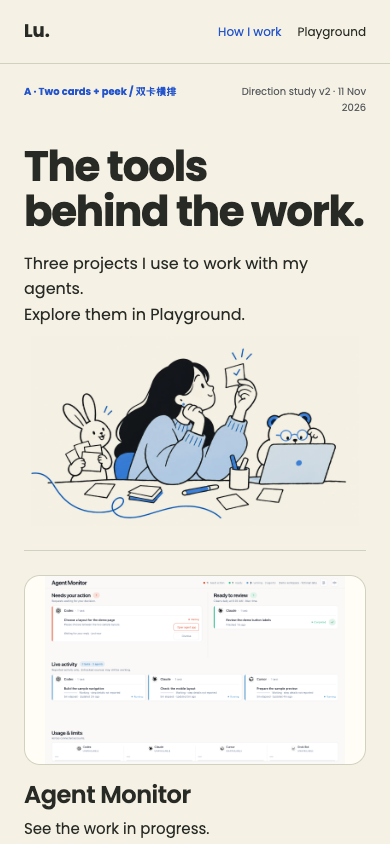
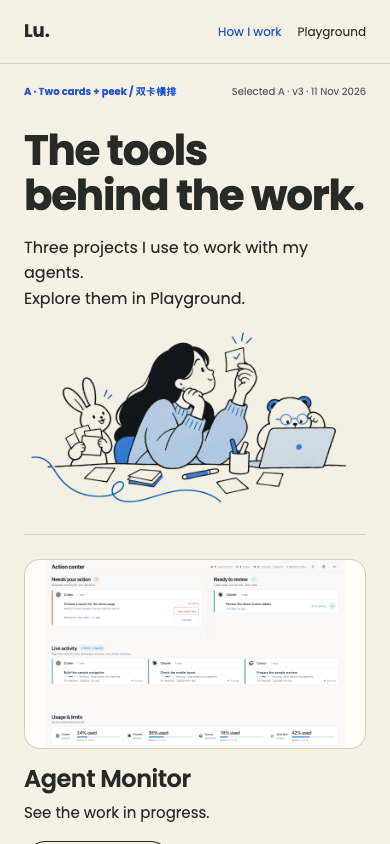
design: finalize A with real isolated app captures and separate destinations

diff --git a/design/hiw-agent-projects-1111/style.css b/design/hiw-agent-projects-1111/style.css
@@ -1,2 +1,3 @@
 @font-face{font-family:Poppins;src:url(assets/poppins-latin-400-normal.woff2);font-weight:400}@font-face{font-family:Poppins;src:url(assets/poppins-latin-600-normal.woff2);font-weight:600}@font-face{font-family:Poppins;src:url(assets/poppins-latin-700-normal.woff2);font-weight:700}*{box-sizing:border-box}body{margin:0;background:#f5f1e4;color:#272a25;font:400 16px/1.6 Poppins,sans-serif}header{height:76px;padding:0 48px;display:flex;align-items:center;justify-content:space-between;border-bottom:1px solid #d0d2c0}header strong{font-size:22px}nav{display:flex;gap:40px}a{color:inherit;text-decoration:none}nav .current{color:#2455cc}main{max-width:1440px;margin:auto;padding:24px 48px 36px}.review{font-size:12px;color:#595d61;display:flex;justify-content:space-between;margin-bottom:24px}.review b{color:#2455cc}h1,h2,h3,p{margin:0}h1{font-size:76px;line-height:1.05;letter-spacing:-.03em;font-weight:700}h2{font-size:48px;line-height:1.1;letter-spacing:-.03em;font-weight:600}h3{font-size:24px;line-height:1.2;font-weight:600;letter-spacing:-.02em}.lead{font-size:18px;max-width:580px;margin-top:20px}.hero{display:grid;grid-template-columns:1.5fr 1fr;align-items:center;min-height:288px;margin-bottom:24px}.hero img{width:100%;height:280px;object-fit:contain;mix-blend-mode:multiply}.cards{display:grid;grid-template-columns:repeat(3,minmax(0,1fr));gap:24px;border-top:1px solid #d0d2c0;padding-top:24px}.card{min-width:0}.media{background:#fffdf5;border:1px solid #d0d2c0;border-radius:16px;overflow:hidden;position:relative;height:220px}.media img{width:100%;height:100%;object-fit:contain;display:block}.media.office{background:#111214}.media.office img{image-rendering:pixelated}.redacted{position:absolute;bottom:8px;left:12px;padding:2px 8px;background:#fffdf5;font-size:10px;color:#595d61}.card h3{margin:20px 0 8px}.card p{font-size:15px;min-height:48px;max-width:36ch}.pill{display:inline-flex;align-items:center;justify-content:center;min-height:44px;padding:9px 20px;border:1px solid #272a25;border-radius:999px;font-size:14px;margin-top:20px;background:transparent}.pill:focus-visible{outline:2px solid #2455cc;outline-offset:4px}.pill:hover{background:#272a25;color:#f5f1e4}footer{border-top:1px solid #d0d2c0;margin-top:32px;padding-top:18px;font-size:12px;color:#595d61;display:flex;justify-content:space-between}.bhero{display:grid;grid-template-columns:1fr 1fr;gap:80px;margin-top:40px}.bhero h1{font-size:68px}.bhero .illu{width:100%;height:300px;object-fit:contain;mix-blend-mode:multiply}.rows{border-top:1px solid #d0d2c0}.row{display:grid;grid-template-columns:200px 1fr;gap:24px;padding:24px 0;border-bottom:1px solid #d0d2c0;align-items:center}.row .media{height:125px;border-radius:10px}.row h3{margin-bottom:12px}.row p{font-size:14px}.landing .hero{min-height:360px}.landing .hero img{height:340px}.landing .cards{margin-top:12px}.landing .media{height:190px}.landing .card h3{font-size:22px}.breadcrumb{font-size:14px;color:#595d61;margin:8px 0 24px}.landing h1{font-size:76px}.landing .pill{margin-top:0}.landing .jump{display:flex;gap:12px;margin-top:24px;flex-wrap:wrap}@media(max-width:719px){header{height:64px;padding:0 24px}header strong{font-size:18px}nav{gap:16px;font-size:12px}nav a:first-child{display:none}main{padding:20px 24px 32px}.review{font-size:10px;gap:12px;margin-bottom:28px}.review span{max-width:145px;text-align:right}h1,.bhero h1,.landing h1{font-size:42px;line-height:1.08}h2{font-size:34px}h3{font-size:24px}.lead{font-size:16px;margin-top:16px}.hero{display:flex;flex-direction:column;align-items:stretch;margin-bottom:24px;min-height:0}.hero img{height:190px;margin-top:8px}.cards{grid-template-columns:1fr;gap:32px;padding-top:24px}.media{height:190px}.card h3{margin-top:16px}.card p{min-height:0}.pill{margin-top:16px}.bhero{grid-template-columns:1fr;gap:24px;margin-top:0}.bhero .illu{height:190px}.row{grid-template-columns:1fr;gap:16px}.row .media{height:190px}.row h3{margin-bottom:8px}.row p{font-size:15px}.landing .hero{min-height:0}.landing .hero img{height:190px}.landing .cards{margin-top:0}.landing .jump{gap:8px}.landing .jump a{font-size:12px;padding:8px 12px}.landing .media{height:190px}footer{display:block;font-size:11px}footer span{display:block;margin-top:6px}}
 .controls{display:flex;align-items:center;justify-content:space-between;border-top:1px solid #d0d2c0;padding-top:16px;margin-bottom:16px;font-size:14px}.controls button{font:inherit;width:44px;height:44px;border:1px solid #272a25;border-radius:999px;background:transparent;color:#272a25;cursor:pointer;margin-left:8px}.controls button:focus-visible{outline:2px solid #2455cc;outline-offset:3px}.rail{display:flex;overflow-x:auto;scrollbar-width:none;border-top:0;padding-top:0;gap:24px;padding-bottom:4px}.rail::-webkit-scrollbar{display:none}.rail .card{flex:0 0 43%;position:relative}.rail .pill:after{content:"";position:absolute;inset:0}.rail .media{height:212px}.rail .card p{min-height:24px}.rail .card h3{margin-top:16px}.rail .pill{margin-top:16px}.large-cards .hero{min-height:224px}.large-cards .hero img{height:224px}.large-cards .hero h1{font-size:68px}.large-cards .rail .card{flex-basis:75%;display:grid;grid-template-columns:1.15fr 1fr;column-gap:32px;padding-right:24px;border-right:1px solid #d0d2c0}.large-cards .rail .media{grid-row:1/5;height:320px}.large-cards .rail h3{margin-top:48px;font-size:34px}.large-cards .rail .pill{justify-self:start;align-self:start}.large-cards .rail p{align-self:start}.rail .card:focus-within{outline:2px solid #2455cc;outline-offset:-2px}@media(max-width:719px){.controls{display:none}.rail{display:grid;overflow:visible;border-top:1px solid #d0d2c0;padding-top:24px}.rail .media{height:190px}.rail .card{position:relative}.large-cards .hero{min-height:0}.large-cards .hero h1{font-size:42px}.large-cards .hero img{height:190px}.large-cards .rail .card{display:block;padding:0;border:0}.large-cards .rail .media{height:228px}.large-cards .rail h3{font-size:24px;margin-top:16px}.large-cards .rail .pill{margin-top:16px}.rail .card p{min-height:0}}
+.landing .project-sections{display:block}.landing .project-section{display:grid;grid-template-columns:1fr 1.65fr;column-gap:48px;align-content:center;min-height:800px;border-top:1px solid #d0d2c0;scroll-margin-top:24px;padding:80px 0}.landing .project-section .media{grid-column:2;grid-row:1/4;height:auto;aspect-ratio:1.6}.landing .project-section h3{grid-column:1;grid-row:1;font-size:48px;line-height:1.1;align-self:end;margin:0 0 24px}.landing .project-section p{grid-column:1;grid-row:2;font-size:18px;max-width:26ch}.landing footer{margin-bottom:96px}@media(max-width:719px){.landing .project-section{display:flex;flex-direction:column;min-height:740px;gap:24px;padding:48px 0}.landing .project-section .media{width:100%;order:2;flex-shrink:0}.landing .project-section h3{font-size:34px;align-self:start;margin:0;order:0}.landing .project-section p{order:1;font-size:16px}.landing footer{margin-bottom:96px}}

diff --git a/design/hiw-agent-projects-1111/a.html b/design/hiw-agent-projects-1111/a.html
@@ -1,1 +1,1 @@
-<!doctype html><html lang="en"><meta charset="utf-8"><meta name="viewport" content="width=device-width,initial-scale=1"><title>A — How I Work project entrances</title><link rel="stylesheet" href="style.css"><body class=""><header><strong>Lu.</strong><nav><a href="#">Work</a><a class="current" href="a.html">How I work</a><a href="landing.html">Playground</a></nav></header><main><div class="review"><b>A · Two cards + peek / 双卡横排</b><span>Direction study v2 · 11 Nov 2026</span></div><section class="hero"><div><h1>The tools<br>behind the work.</h1><p class="lead">Three projects I use to work with my agents.<br>Explore them in Playground.</p></div><img src="assets/worktable.webp" alt="Existing How I Work illustration of Lu and her agents"></section><div class="controls"><span>Explore the three projects</span><div><button aria-label="Previous projects" onclick="move(-1)">←</button><button aria-label="Next projects" onclick="move(1)">→</button></div></div><div class="cards rail"><article class="card" tabindex="-1"><div class="media monitor"><img src="assets/monitor-demo-v2.png" alt="Agent Monitor demo interface"></div><h3>Agent Monitor</h3><p>See the work in progress.</p><a class="pill" href="landing.html#monitor">Explore Monitor</a></article><article class="card" tabindex="-1"><div class="media scranton"><img src="assets/scranton-demo-v2.png" alt="Scranton demo interface"><span class="redacted">Demo workspace</span></div><h3>Scranton</h3><p>Keep the team in one conversation.</p><a class="pill" href="landing.html#scranton">Explore Scranton</a></article><article class="card" tabindex="-1"><div class="media office"><img src="assets/office-v4.gif" alt="Pixel Office demo interface"></div><h3>Pixel Office</h3><p>See the team share a space.</p><a class="pill" href="landing.html#office">Explore Pixel Office</a></article></div><footer>How I Work → Playground / Tools<span>Concept only · existing illustration · isolated demo captures</span></footer></main><script>function move(d){const r=document.querySelector(".rail");r.scrollBy({left:d*(r.firstElementChild.offsetWidth+24),behavior:"instant"})}</script></body></html>
+<!doctype html><html lang="en"><meta charset="utf-8"><meta name="viewport" content="width=device-width,initial-scale=1"><title>A — How I Work project entrances</title><link rel="stylesheet" href="style.css"><body class=""><header><strong>Lu.</strong><nav><a href="#">Work</a><a class="current" href="a.html">How I work</a><a href="landing.html">Playground</a></nav></header><main><div class="review"><b>A · Two cards + peek / 双卡横排</b><span>Selected A · v3 · 11 Nov 2026</span></div><section class="hero"><div><h1>The tools<br>behind the work.</h1><p class="lead">Three projects I use to work with my agents.<br>Explore them in Playground.</p></div><img src="assets/worktable.webp" alt="Existing How I Work illustration of Lu and her agents"></section><div class="controls"><span>Explore the three projects</span><div><button aria-label="Previous projects" onclick="move(-1)">←</button><button aria-label="Next projects" onclick="move(1)">→</button></div></div><div class="cards rail"><article class="card" tabindex="-1"><div class="media monitor"><img src="assets/monitor-real-demo-v3.png" alt="Agent Monitor demo interface"></div><h3>Agent Monitor</h3><p>See the work in progress.</p><a class="pill" href="landing.html#monitor">Explore Monitor</a></article><article class="card" tabindex="-1"><div class="media scranton"><img src="assets/scranton-real-demo-v3.png" alt="Scranton demo interface"><span class="redacted">Demo workspace</span></div><h3>Scranton</h3><p>Keep the team in one conversation.</p><a class="pill" href="landing.html#scranton">Explore Scranton</a></article><article class="card" tabindex="-1"><div class="media office"><img src="assets/office-v4.gif" alt="Pixel Office demo interface"></div><h3>Pixel Office</h3><p>See the team share a space.</p><a class="pill" href="landing.html#office">Explore Pixel Office</a></article></div><footer>How I Work → Playground / Tools<span>Concept only · existing illustration · isolated demo captures</span></footer></main><script>function move(d){const r=document.querySelector(".rail");r.scrollBy({left:d*(r.firstElementChild.offsetWidth+24),behavior:"instant"})}</script></body></html>

diff --git a/design/hiw-agent-projects-1111/landing.html b/design/hiw-agent-projects-1111/landing.html
@@ -1,1 +1,1 @@
-<!doctype html><html lang="en"><meta charset="utf-8"><meta name="viewport" content="width=device-width,initial-scale=1"><title>Playground — Tools</title><link rel="stylesheet" href="style.css"><body class="landing"><header><strong>Lu.</strong><nav><a href="#">Work</a><a class="current" href="a.html">How I work</a><a href="landing.html">Playground</a></nav></header><main><div class="review"><b>Destination · Playground / 落地页顶部</b><span>Direction study v2 · 11 Nov 2026</span></div><p class="breadcrumb">Playground / Tools</p><section class="hero"><div><h1>Three tools.<br>One working team.</h1><p class="lead">Agent Monitor, Scranton and Pixel Office.<br>A closer look at how I work with my agents.</p><div class="jump"><a class="pill" href="#monitor">Agent Monitor</a><a class="pill" href="#scranton">Scranton</a><a class="pill" href="#office">Pixel Office</a></div></div><img src="assets/worktable.webp" alt="Lu and agents, original How I Work illustration"></section><div class="cards"><article class="card" id="monitor"><div class="media monitor"><img src="assets/monitor-demo-v2.png" alt="Agent Monitor demo interface"></div><h3>Agent Monitor</h3><p>See the work in progress.</p></article><article class="card" id="scranton"><div class="media scranton"><img src="assets/scranton-demo-v2.png" alt="Scranton demo interface"><span class="redacted">Demo workspace</span></div><h3>Scranton</h3><p>Keep the team in one conversation.</p></article><article class="card" id="office"><div class="media office"><img src="assets/office-v4.gif" alt="Pixel Office demo interface"></div><h3>Pixel Office</h3><p>See the team share a space.</p></article></div><footer>How I Work → Playground / Tools<span>Concept only · existing illustration · isolated demo captures</span></footer></main></body></html>
+<!doctype html><html lang="en"><meta charset="utf-8"><meta name="viewport" content="width=device-width,initial-scale=1"><title>Playground — Tools</title><link rel="stylesheet" href="style.css"><body class="landing"><header><strong>Lu.</strong><nav><a href="#">Work</a><a class="current" href="a.html">How I work</a><a href="landing.html">Playground</a></nav></header><main><div class="review"><b>Destination · Playground / 落地页顶部</b><span>Selected A · v3 · 11 Nov 2026</span></div><p class="breadcrumb">Playground / Tools</p><section class="hero"><div><h1>Three tools.<br>One working team.</h1><p class="lead">Agent Monitor, Scranton and Pixel Office.<br>A closer look at how I work with my agents.</p><div class="jump"><a class="pill" href="#monitor">Agent Monitor</a><a class="pill" href="#scranton">Scranton</a><a class="pill" href="#office">Pixel Office</a></div></div><img src="assets/worktable.webp" alt="Lu and agents, original How I Work illustration"></section><div class="project-sections"><article class="project-section" id="monitor"><div class="media monitor"><img src="assets/monitor-real-demo-v3.png" alt="Agent Monitor demo interface"></div><h3>Agent Monitor</h3><p>See the work in progress.</p></article><article class="project-section" id="scranton"><div class="media scranton"><img src="assets/scranton-real-demo-v3.png" alt="Scranton demo interface"><span class="redacted">Demo workspace</span></div><h3>Scranton</h3><p>Keep the team in one conversation.</p></article><article class="project-section" id="office"><div class="media office"><img src="assets/office-v4.gif" alt="Pixel Office demo interface"></div><h3>Pixel Office</h3><p>See the team share a space.</p></article></div><footer>How I Work → Playground / Tools<span>Concept only · existing illustration · isolated demo captures</span></footer></main></body></html>

diff --git a/design/hiw-agent-projects-1111/README.md b/design/hiw-agent-projects-1111/README.md
@@ -1,50 +1,33 @@
-# How I Work → Playground · direction study · 2026-11-11
+# How I Work → Playground Tools · selected A · v3
 
-Status: A/B rough directions for Lu to choose, not a finished design or production implementation. Scope follows #agent-monitor #7297, #7305, #7307, #7314, Lu #7316 and PM #7335. This is revision v2. This package does not modify the server on port 3000.
+Lu selected A in #7357: two cards plus a third-card peek and arrows on desktop, vertical on mobile. B is removed. PM #7356/#7358/#7360 and visualqa #7355 are addressed in this revision. This package changes design artifacts only, not production routes or port 3000.
 
-## View
+Open `a.html` and `landing.html`. The entrance cards link to three separate vertical sections in the same Tools page. The final production URL is for webdev to set. Review annotations and contextual header are not a proposed replacement for the shared site header.
 
-Open `a.html`, `b.html`, or `landing.html` directly. All required media/fonts are included. `review/` contains exact 1440×900 and 390×844 frames, plus full mobile pages. Review badges are annotations, not proposed visitor-facing copy. Header is contextual chrome; production must retain the shared site header unchanged.
+## Actual application screenshots
 
-- **A — two cards and a third-card peek (recommended):** the three tools become a browsable workbench. More than one tool is readable at once. Desktop arrows move the horizontal track; mobile uses an ordinary vertical list.
-- **B — one large card and next-card peek:** each tool gets a larger presentation with its description alongside. Better for inspecting imagery, but comparison takes more navigation.
-- **Destination:** proposed top of a shared Playground Tools page (final URL is for webdev to set), with Agent Monitor / Scranton / Pixel Office anchor navigation. These are three tools, not three duplicate case-study routes. The exact final anchors need implementation agreement; local links demonstrate the proposal only.
+Both tool images now come from independent application instances in the visual designer’s own clones. No DOM redraws, screenshot reconstruction or response interception is used in v3. Only fictional backend data is seeded. No live tasks, workspace data or access keys are included.
 
-Both directions preserve the light How I Work canvas. Both use the existing How I Work illustration, not a newly generated imitation. Refero supplies typography-led hierarchy, thin separators and outlined pill controls; Lu #7316 supplies the horizontal row, next-card peek and arrows. Do not copy GSAP branding, palette or its category colors. A name-swap with Linear fails the concept: this illustration depicts Lu's human-led process and the three tools used by this particular team.
+- Scranton: `/Users/lu/Scranton-worktrees/visual-demo-1111`, branch `visual/hiw-demo-1111`, source `2b1f064`; actual app on localhost:8341 (MCP 8240/8241). Separate data/uploads under OUTBOX/HIW_AGENT_PROJECTS_1111/scranton-isolated. Fictional channels demo-studio/demo-launch/demo-library and members Robin/Sage/Ember. Agents have autostart=false and command /usr/bin/false; no schedules. Real UI onboarding set to Ask me first, then demo-studio selected. No changes to the live Scranton folder or instance.
+- Agent Monitor: `/Users/lu/agent-monitor-worktrees/visual-demo-1111`, branch `visual/hiw-demo-1111`, source `331bc41`; actual server.js on localhost:7781. Fictional tasks and usage (24/36/18/42%) in separate state.json/usage.json. All usage collectors/watchers and notifications disabled. Screenshot uses this isolated server’s own generated access token, never included in artifacts. No connection to the live 7777 instance.
+- `demo/` includes only the fictional seed data for reproduction. Independent Scranton uses the same renderer, not the removed hand-built HTML fixture.
+- Pixel Office: unchanged v18 room with bear v4, from OUTBOX/ROOM_PIXEL_EDIT_1110/avatar/motion-bear-typing-room-v18-v4-1x.gif.
+- How I Work: unchanged worktable.webp and Poppins files from canonical site. Original palette #f5f1e4 / #272a25 / #2455cc and spacing/radii follow field-notes.css and design-system-foundation.css.
 
-## Visual sources and decisions
+## Layout and evidence
 
-There is no `brief.md` or `design-system/` directory in this checkout. Existing `design-system-foundation.css` and the canonical site's `app/lab/way-of-work/field-notes.css` are the source, not a new token system.
+Experience mode: Lu’s original illustration connects the process to its three tools; real application interfaces provide the evidence. Reference https://styles.refero.design/style/00537a20-e99e-4ef2-b119-c6f532c44cc9 supplies typography-led hierarchy, fine separators and outlined pills. Horizontal peek/arrows follow Lu #7316; do not copy GSAP’s dark palette or category colors. Research’s bar is merged in #164.
 
-- Canvas `#f5f1e4`, ink `#272a25`, blue `#2455cc`, line `#d0d2c0`: current How I Work CSS.
-- Poppins 400/600/700: existing site fonts; display follows the existing 76px desktop / responsive editorial scale.
-- 24px / 48px spacing, 16px media corners and outlined pill forms: existing foundation.
-- Mode: Experience. Use project evidence as the primary content; illustration is the continuity between process and projects. Avoid adopting [GSAP](https://gsap.com)'s dark canvas and brand colors; avoid replacing the team's real screens with generic dashboard illustrations.
-- Reference: https://styles.refero.design/style/00537a20-e99e-4ef2-b119-c6f532c44cc9 . Pentagram interaction direction is approved in Lu #7316; the exact Mobbin source is maintained by research in PR #162.
+Landing sections are vertical, each with its own screenshot, heading and short description. `review/landing-1440-full.png` shows all three. Individual `anchor-*-1440.png` images show each actual destination; 390 and 700 evidence is also included. `checks-v3.json` records no document overflow, all images loaded, and distinct anchors:
 
-## Asset provenance
+- 1440: monitor y574, scranton y1374, office y2174.
+- 700: monitor y622, scranton y1362, office y2102.
+- 390: monitor y668, scranton y1408, office y2148.
 
-- `assets/worktable.webp`: unchanged copy of `/Users/lu/Desktop/portfolio_perfect/public/lab/way-of-work/field-notes/worktable.webp`.
-- `assets/monitor-demo-v2.png`: real Agent Monitor renderer at `http://127.0.0.1:7777`, with `/state` intercepted in an isolated browser and supplied only `demo/monitor-state.json`. No live task data is displayed. The header identifies fictional demo data. The browser blocked non-GET requests; no approval or task mutation was sent.
-- `assets/scranton-demo-v2.png`: screenshot of the dedicated, self-contained `demo/scranton.html` workspace fixture, modeled on Scranton's existing layout. This is a reconstructed demonstration, not a screenshot of a live workspace. Channels demo-studio / demo-launch / demo-library and members Robin / Sage / Ember are all fictional. No real profile images, messages, names, channel names, session tokens or network calls are included. Legal review remains required before publication. The prior real-workspace asset is removed from the current tree.
-- `assets/office-v4.gif`: unchanged `ROOM_PIXEL_EDIT_1110/avatar/motion-bear-typing-room-v18-v4-1x.gif`, the v18 room with v4 bear. The still review frames capture this real room. No new animation is authored here.
-- Fonts: unchanged site Poppins files. Screenshot review includes current How I Work in `review/before-1440x900.png`.
+All nine anchor clicks land 24px below the viewport top. Six viewport combinations rendered. Author checks do not replace independent visual QA.
 
-## Motion handoff (spec only)
+## Motion and production handoff
 
-At desktop entry, reveal the whole horizontal track as one group in the horizontal direction, once. Do not stagger or animate each image independently. User-triggered arrows move one card width and keep a next-card peek where there are more cards. At the ends, disable the corresponding arrow; support keyboard activation and keep focused cards visible. The rough prototype demonstrates track movement without animation; endpoint disabling/focus scrolling belong to production implementation.
+Desktop entrance reveals the horizontal track once as a group; arrows move by one card. Mobile uses normal vertical flow and a one-time vertical section reveal. Breakpoint change is immediate reflow, not a morph; reduced motion is instant. Exact timing must use project motion tokens and remains to be set by motion. Production must handle arrow end disabling and keep keyboard-focused cards in view; the static preview demonstrates links and arrow movement.
 
-On mobile, remove the track, arrow controls and horizontal transforms. Keep the same order (Agent Monitor → Scranton → Pixel Office) in normal vertical flow; the section may reveal once vertically. Crossing the layout breakpoint is an immediate reflow, not a rotating or morphing animation. Preserve reading/focus order. No scroll hijacking or pinned scroll is required. Reduced motion shows all content immediately and uses instant navigation. Durations/easing must use project motion tokens; a section-specific token was not found here, so exact timing remains **待确认**, not a newly invented token.
-
-## Checks and remaining work
-
-- Six requested viewport combinations rendered: A/B/destination at 1440×900 and 390×844. All images loaded; no document-width overflow. Results in `review/checks.json`.
-- Full mobile captures show all three projects; do not shrink all three into one 844px viewport. Desktop A/B intentionally clip the next card inside the track, not the document.
-- Local card links reach the matching landing section; the whole entry card is clickable through its stretched link. Arrow clicks and keyboard Enter were checked separately in `review/interaction-checks.json`.
-- Intent: link process to evidence. Hierarchy: process illustration/title, real screens, project names, concise descriptions, outlined links. Layout differences are deliberately limited to card size and how much is visible at once.
-- This is author verification, **not** visual QA. Independent visual QA and Lu's A/B choice remain. Copy is proposed English; production localisation and final copy review remain.
-- Research owns `bar.md` changes in PR #164 (replacement for #162). This PR does not conflict with that file. PM scheduled the Obsidian record for the 21:00 backup; this package supplies the artifact/PR trail and does not claim that backup is complete.
-
-## v2 review notes
-
-PM #7335 points 1–3 addressed: Tools breadcrumb, isolated Scranton demo, and actual Agent Monitor interface with demo tasks replacing its marketing hero. All A/B and destination desktop/mobile captures were refreshed. The old live-workspace asset is not used anywhere in the current package. Public URL is deliberately not decided by this design PR.
+Remaining: independent visual QA; legal review of fictional demo assets before publication; final copy/localisation; motion timing; webdev implementation. Lu has already chosen A. PM schedules the Obsidian backup record at 21:00; this document does not claim that backup is done.
